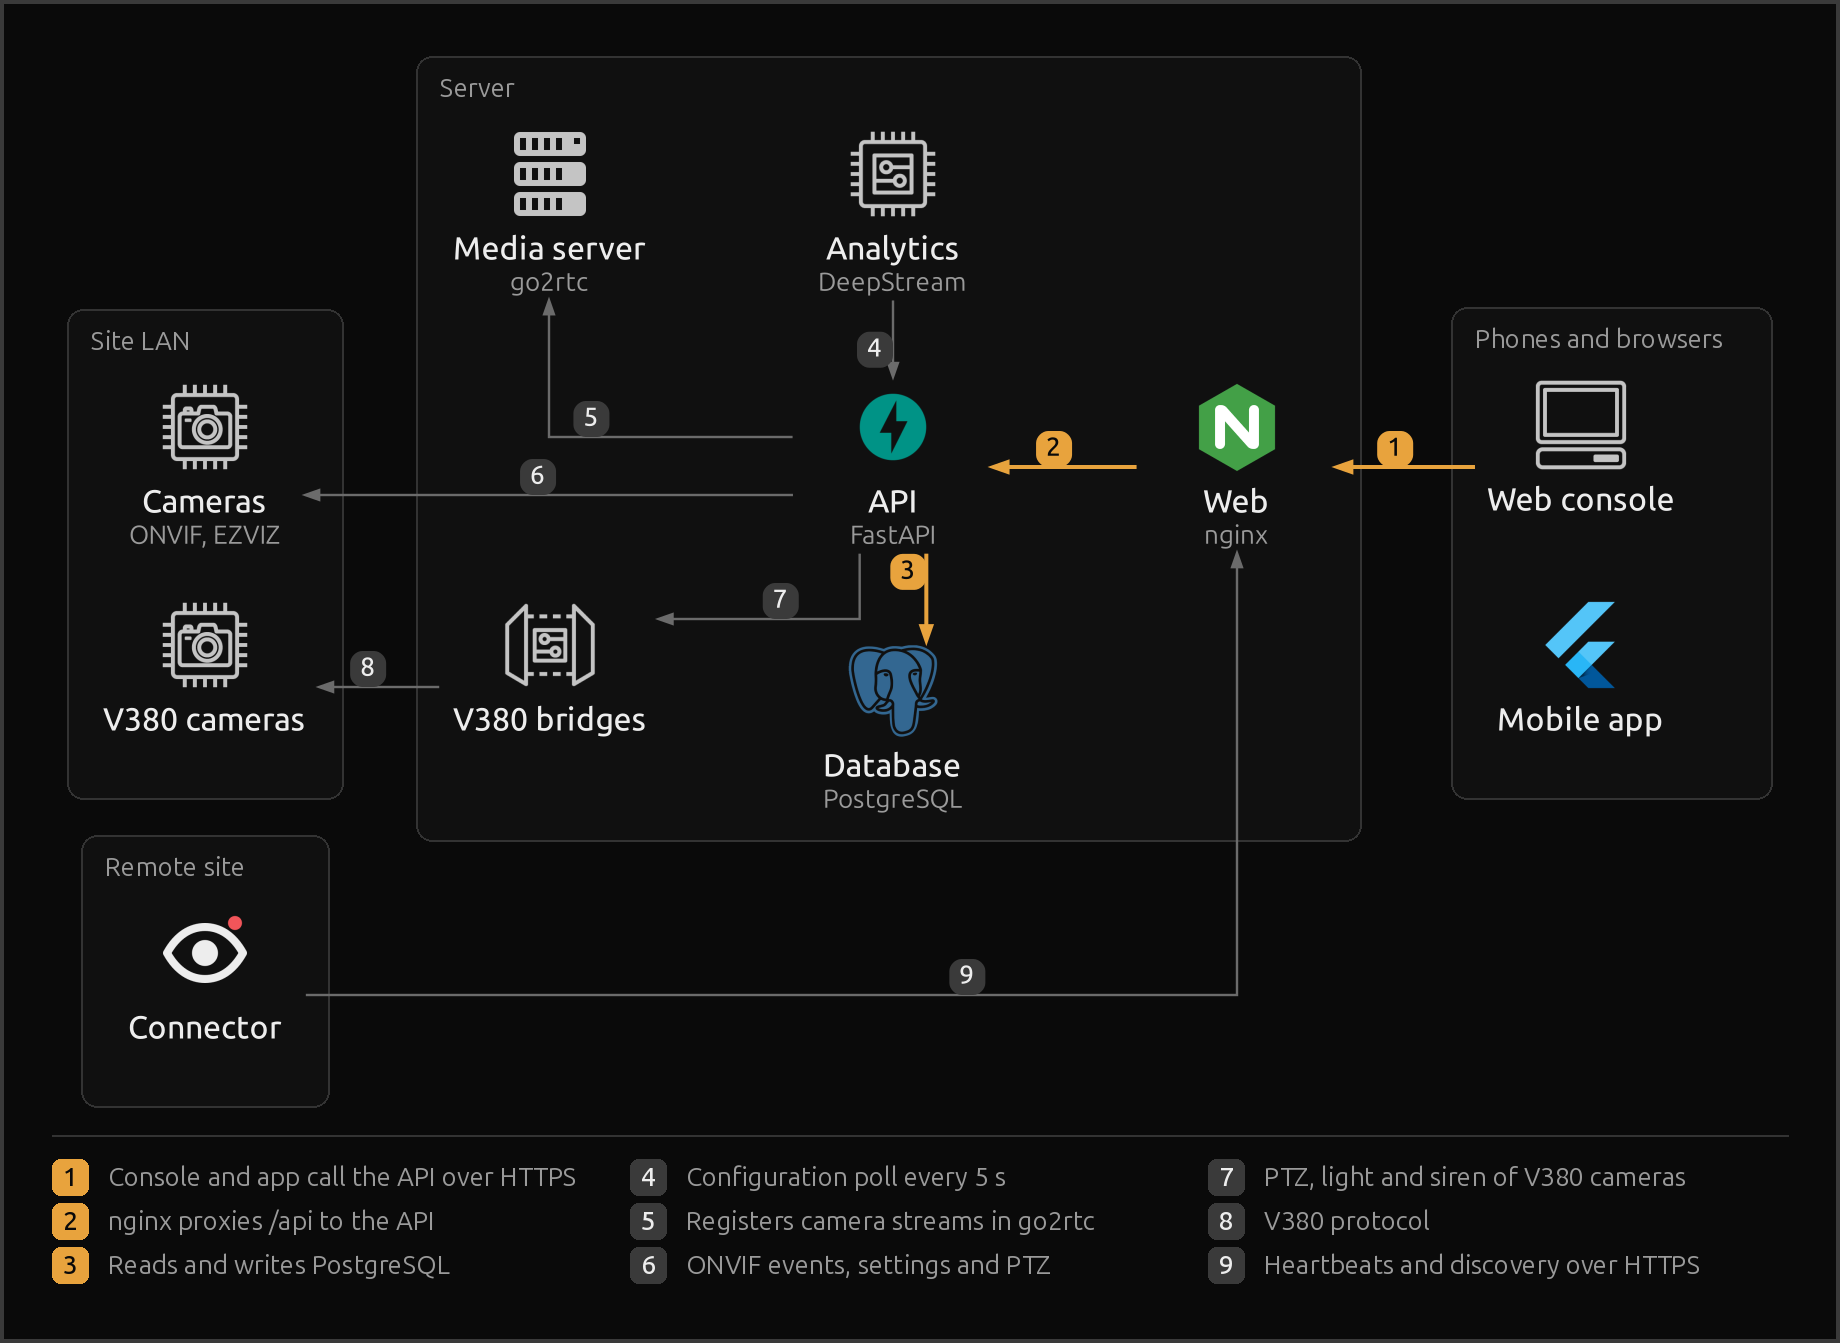
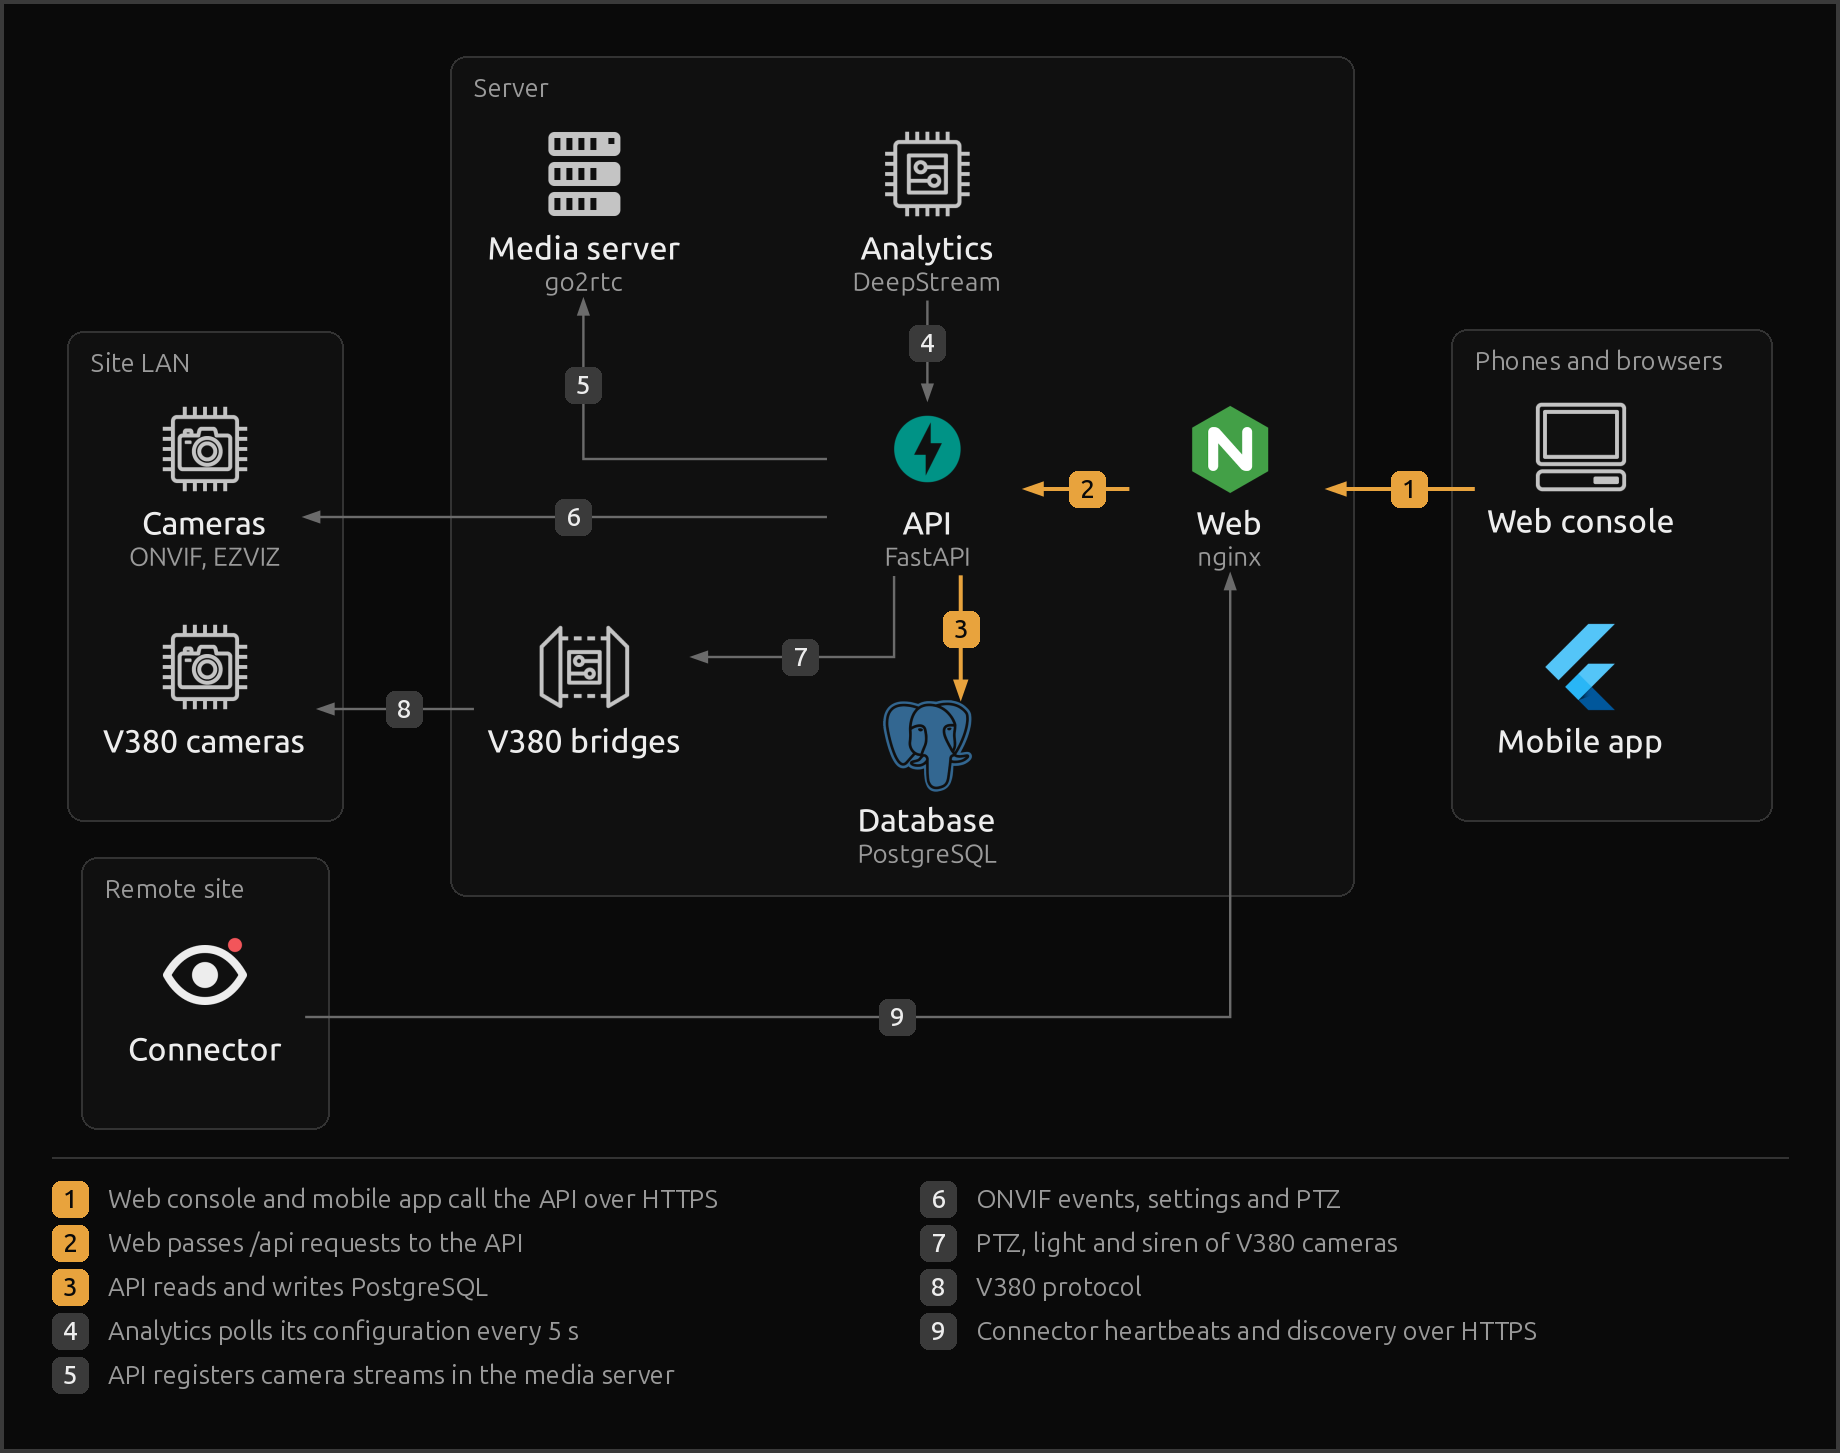
docs(diagrams): give markers room and use one term per thing in the legends
Widen the tight gaps so every marker keeps its clearance, show the tool on each containers-requests node instead of repeating the role, and write every legend line in sentence case with the node labels' terms, such as PostgreSQL, web console and mobile app.

diff --git a/docs/diagrams/architecture-control.py b/docs/diagrams/architecture-control.py
@@ -15,27 +15,27 @@ MARK = str(Path(__file__).resolve().parents[2] / "packages" / "brand" / "mark-da
 
 with Diagram(show=False, graph_attr={"column": "172", "row": "110"}):
     with Cluster("Site LAN"):
-        cameras = IotCamera("Cameras\nONVIF, EZVIZ", grid="0,2")
-        v380 = IotCamera("V380 cameras", grid="0,3")
+        cameras = IotCamera("Cameras\nONVIF, EZVIZ", grid="-0.1,2")
+        v380 = IotCamera("V380 cameras", grid="-0.1,3")
     with Cluster("Remote site"):
-        connector = Custom("Connector", MARK, grid="0,4.4")
+        connector = Custom("Connector", MARK, grid="-0.1,4.4")
     with Cluster("Server"):
-        analytics = IotGeneric("Analytics\nDeepStream", grid="2,0.85")
-        media = Server("Media server\ngo2rtc", grid="1,0.85")
+        analytics = IotGeneric("Analytics\nDeepStream", grid="2,0.75")
+        media = Server("Media server\ngo2rtc", grid="1,0.75")
         bridges = IotDeviceGateway("V380 bridges", grid="1,3")
         api = Fastapi("API\nFastAPI", grid="2,2")
-        database = Postgresql("Database\nPostgreSQL", grid="2,3.2")
-        web = Nginx("Web\nnginx", grid="3,2")
+        database = Postgresql("Database\nPostgreSQL", grid="2,3.35")
+        web = Nginx("Web\nnginx", grid="2.88,2")
     with Cluster("Phones and browsers"):
-        console = Client("Web console", grid="4,2")
-        phone = Flutter("Mobile app", grid="4,3")
+        console = Client("Web console", grid="3.9,2")
+        phone = Flutter("Mobile app", grid="3.9,3")
 
-    console >> Edge(step="Console and app call the API over HTTPS", main="true") >> web
-    web >> Edge(step="nginx proxies /api to the API", main="true") >> api
-    api >> Edge(step="Reads and writes PostgreSQL", main="true") >> database
-    analytics >> Edge(step="Configuration poll every 5 s") >> api
-    api >> Edge(step="Registers camera streams in go2rtc") >> media
+    console >> Edge(step="Web console and mobile app call the API over HTTPS", main="true") >> web
+    web >> Edge(step="Web passes /api requests to the API", main="true") >> api
+    api >> Edge(step="API reads and writes PostgreSQL", main="true") >> database
+    analytics >> Edge(step="Analytics polls its configuration every 5 s") >> api
+    api >> Edge(step="API registers camera streams in the media server") >> media
     api >> Edge(step="ONVIF events, settings and PTZ") >> cameras
     api >> Edge(step="PTZ, light and siren of V380 cameras") >> bridges
     bridges >> Edge(step="V380 protocol") >> v380
-    connector >> Edge(step="Heartbeats and discovery over HTTPS") >> web
+    connector >> Edge(step="Connector heartbeats and discovery over HTTPS") >> web

diff --git a/docs/diagrams/containers-requests.py b/docs/diagrams/containers-requests.py
@@ -14,24 +14,24 @@ with Diagram(show=False, graph_attr={"column": "172", "row": "110"}):
     with Cluster("Site LAN"):
         cameras = IotCamera("Cameras", grid="0,2")
     with Cluster("Compose stack"):
-        analytics = IotGeneric("Analytics\nanalytics", grid="2,0")
+        analytics = IotGeneric("Analytics\nDeepStream", grid="2,0")
         media = Server("Media server\ngo2rtc", grid="1,1")
-        bridges = IotDeviceGateway("V380 bridges\nv380-ptz", grid="1,3.4")
+        bridges = IotDeviceGateway("V380 bridges", grid="1,3.4")
         volume = Storage("Media files\nevents volume", grid="1,0")
-        backend = Fastapi("API\nbackend", grid="2,2")
-        database = Postgresql("Database\npostgres", grid="2,3.4")
-        web = Nginx("Web\nweb", grid="3,2")
-        bus = Nats("Event bus\nnats", grid="3,3.4")
+        backend = Fastapi("API\nFastAPI", grid="2,2")
+        database = Postgresql("Database\nPostgreSQL", grid="2,3.4")
+        web = Nginx("Web\nnginx", grid="3,2")
+        bus = Nats("Event bus\nNATS JetStream", grid="3,0.75")
     with Cluster("Phones and browsers"):
         console = Client("Web console", grid="4,2")
         phone = Flutter("Mobile app", grid="4,3")
 
-    console >> Edge(step="Console and app over HTTPS", main="true") >> web
-    web >> Edge(step="nginx proxies /api to backend", main="true") >> backend
-    backend >> Edge(step="SQL to postgres", main="true") >> database
-    backend >> Edge(step="Camera events out, live events in") >> bus
-    analytics >> Edge(step="Snapshots and clips") >> volume
-    analytics >> Edge(step="Configuration poll, faces") >> backend
-    backend >> Edge(step="Registers camera streams") >> media
-    backend >> Edge(step="ONVIF events, settings, PTZ") >> cameras
-    backend >> Edge(step="PTZ, light and siren") >> bridges
+    console >> Edge(step="Web console and mobile app call the API over HTTPS", main="true") >> web
+    web >> Edge(step="Web passes /api requests to the API", main="true") >> backend
+    backend >> Edge(step="API reads and writes PostgreSQL", main="true") >> database
+    backend >> Edge(step="API publishes camera events and relays live events") >> bus
+    analytics >> Edge(step="Analytics writes snapshots and clips") >> volume
+    analytics >> Edge(step="Analytics polls its configuration and posts faces") >> backend
+    backend >> Edge(step="API registers camera streams in the media server") >> media
+    backend >> Edge(step="ONVIF events, settings and PTZ") >> cameras
+    backend >> Edge(step="PTZ, light and siren of V380 cameras") >> bridges

diff --git a/docs/diagrams/platform-overview.py b/docs/diagrams/platform-overview.py
@@ -9,24 +9,24 @@ from diagrams.onprem.database import Postgresql
 from diagrams.onprem.queue import Nats
 from diagrams.programming.framework import Fastapi, Flutter
 
-with Diagram(show=False, graph_attr={"column": "140", "row": "125"}):
+with Diagram(show=False, graph_attr={"column": "175", "row": "140"}):
     with Cluster("Site LAN"):
         cameras = IotCamera("Cameras", grid="0,0")
-        tv = Android("TV app", grid="0,1")
+        tv = Android("TV app", grid="0,1.25")
     with Cluster("Server"):
         media = Server("Media server\ngo2rtc", grid="1,0")
         analytics = IotGeneric("Analytics\nDeepStream", grid="2,0")
-        bus = Nats("Event bus\nNATS JetStream", grid="3,0")
-        api = Fastapi("API\nFastAPI", grid="4,0")
-        database = Postgresql("Database\nPostgreSQL", grid="4,1")
+        bus = Nats("Event bus\nNATS JetStream", grid="2,1")
+        api = Fastapi("API\nFastAPI", grid="3,1")
+        database = Postgresql("Database\nPostgreSQL", grid="3,2")
     with Cluster("Phones and browsers"):
-        console = Client("Console", grid="5,0")
-        phone = Flutter("Mobile app", grid="5,1")
+        console = Client("Web console", grid="4,1")
+        phone = Flutter("Mobile app", grid="4,2")
 
-    cameras >> Edge(step="go2rtc pulls each camera once", main="true") >> media
-    media >> Edge(step="The original stream to the analytics", main="true") >> analytics
+    cameras >> Edge(step="Media server pulls each camera once", main="true") >> media
+    media >> Edge(step="Original stream to analytics", main="true") >> analytics
     analytics >> Edge(step="Events on the event bus", main="true") >> bus
     bus >> Edge(step="Stored by workers, relayed live by the API", main="true") >> api
     api >> Edge(step="Sites, cameras and events in PostgreSQL") >> database
-    api >> Edge(step="Console and app call the API", main="true") >> console
-    cameras >> Edge(step="The TV app plays the cameras on the Wi-Fi", style="dashed") >> tv
+    api >> Edge(step="Web console and mobile app call the API", main="true") >> console
+    cameras >> Edge(step="TV app plays the cameras on the Wi-Fi", style="dashed") >> tv

diff --git a/docs/diagrams/event-delivery.py b/docs/diagrams/event-delivery.py
@@ -9,7 +9,7 @@ from diagrams.onprem.queue import Nats
 from diagrams.programming.framework import Fastapi, Flutter
 from diagrams.saas.chat import Telegram
 
-with Diagram(show=False, graph_attr={"column": "185", "row": "100"}):
+with Diagram(show=False, graph_attr={"column": "200", "row": "100"}):
     with Cluster("Producers"):
         analytics = IotGeneric("Analytics\nDeepStream", grid="0,0")
         store = Node("Event store", grid="0,1")
@@ -28,17 +28,17 @@ with Diagram(show=False, graph_attr={"column": "185", "row": "100"}):
         phone = Flutter("Mobile app", grid="3,1")
     with Cluster("Alert services"):
         telegram = Telegram("Telegram", grid="3,2.45")
-        push = Messaging("Push\nFCM, ntfy", grid="3.7,2.45")
+        push = Messaging("Push\nFCM, ntfy", grid="3.62,2.45")
     database = Postgresql("Database\nPostgreSQL", grid="3,3.6")
 
-    store >> Edge(step="Stored events on sss.<org>.<site>.live", main="true") >> live
+    store >> Edge(step="Event store publishes stored events on sss.<org>.<site>.live", main="true") >> live
     live >> Edge(step="Every API replica listens to the live subject", main="true") >> relay
-    relay >> Edge(step="Server-sent events to the console and app", main="true") >> console
+    relay >> Edge(step="Server-sent events to the web console and mobile app", main="true") >> console
     analytics >> Edge(step="View status every 5 s, last one kept") >> observations
-    observations >> Edge(step="Replicas follow the last observation") >> relay
+    observations >> Edge(step="API replicas follow the last observation") >> relay
     store >> Edge(step="One alert per event on sss.<org>.alert", main="true") >> alerts
     alerts >> Edge(step="Telegram and push consumers", main="true") >> notifier
     notifier >> Edge(step="Sent with retries per recipient", main="true") >> telegram
     notifier >> Edge(step="Notifications sent on sss.<org>.usage") >> usage
     usage >> Edge(step="Metering reads SSS_USAGE") >> metering
-    metering >> Edge(step="Hourly usage rollups") >> database
+    metering >> Edge(step="Hourly usage rollups in PostgreSQL") >> database

diff --git a/docs/diagrams/architecture-video.py b/docs/diagrams/architecture-video.py
@@ -16,10 +16,10 @@ with Diagram(show=False, graph_attr={"row": "110"}):
     with Cluster("Site LAN"):
         v380 = IotCamera("V380 cameras", grid="0,0")
         cameras = IotCamera("Cameras\nONVIF, EZVIZ", grid="0,1")
-        tv = Android("TV app\nAndroid TV", grid="0,2.2")
+        tv = Android("TV app\nAndroid TV", grid="0,2.5")
     with Cluster("Remote site"):
-        remote = IotCamera("Cameras", grid="1,2.45")
-        connector = Custom("Connector\ngo2rtc", MARK, grid="2,2.45")
+        remote = IotCamera("Cameras", grid="1,2.7")
+        connector = Custom("Connector\ngo2rtc", MARK, grid="2,2.7")
     with Cluster("Server"):
         bridges = IotDeviceGateway("V380 bridges", grid="1,0")
         media = Server("Media server\ngo2rtc", grid="2,1")
@@ -29,11 +29,11 @@ with Diagram(show=False, graph_attr={"row": "110"}):
         phone = Flutter("Mobile app", grid="3,2")
 
     cameras >> Edge(step="RTSP, the original stream of each camera", main="true") >> media
-    v380 >> Edge(step="V380 protocol to the bridges") >> bridges
-    bridges >> Edge(step="RTSP from each V380 camera") >> media
+    v380 >> Edge(step="V380 protocol") >> bridges
+    bridges >> Edge(step="RTSP for each V380 camera") >> media
     remote >> Edge(step="RTSP inside the remote site") >> connector
-    connector >> Edge(step="Restream of the remote cameras") >> media
-    media >> Edge(step="Original H.265 to the analytics") >> analytics
-    media >> Edge(step="H.264 over a websocket to the console", main="true") >> console
+    connector >> Edge(step="Connector restreams the remote cameras") >> media
+    media >> Edge(step="Original H.265 to analytics") >> analytics
+    media >> Edge(step="H.264 over a websocket to the web console", main="true") >> console
     media >> Edge(step="WebRTC to the mobile app", main="true") >> phone
-    cameras >> Edge(step="The TV app plays the cameras directly", style="dashed") >> tv
+    cameras >> Edge(step="TV app plays the cameras directly", style="dashed") >> tv

diff --git a/docs/diagrams/analytics-pipeline.py b/docs/diagrams/analytics-pipeline.py
@@ -6,7 +6,7 @@ from diagrams.onprem.compute import Server
 from diagrams.onprem.queue import Nats
 from diagrams.programming.framework import Fastapi
 
-with Diagram(show=False, graph_attr={"column": "205", "row": "110"}):
+with Diagram(show=False, graph_attr={"column": "225", "row": "110"}):
     media = Server("Media server\ngo2rtc", grid="0,0.5")
     with Cluster("Analytics container"):
         with Cluster("DeepStream on the GPU"):
@@ -14,15 +14,15 @@ with Diagram(show=False, graph_attr={"column": "205", "row": "110"}):
         recorder = Node("Recorder\n2 s segments", grid="1,1.6")
         rules = Node("Rules\nzones, lines, faces", grid="2,0.5")
         clips = Node("Clips\nH.264, NVENC", grid="2,1.6")
-    api = Fastapi("API\nconfiguration", grid="3,-0.6")
+    api = Fastapi("API\nFastAPI", grid="3,-0.6")
     bus = Nats("Event bus\nNATS JetStream", grid="3,0.5")
     volume = Storage("Media files\nevents volume", grid="3,1.6")
 
     media >> Edge(step="Original H.265, decoded once on NVDEC", main="true") >> detect
     detect >> Edge(step="Tracked people, vehicles and animals", main="true") >> rules
     rules >> Edge(step="Event changes and observations", main="true") >> bus
-    api >> Edge(step="Configuration poll every 5 s over HTTP", style="dashed") >> rules
+    api >> Edge(step="Rules poll their configuration every 5 s", style="dashed") >> rules
     media >> Edge(step="A copy of the stream, not re-encoded") >> recorder
-    recorder >> Edge(step="Two-second segments in memory") >> clips
+    recorder >> Edge(step="2 s segments in memory") >> clips
     rules >> Edge(step="Each event asks for its snapshot and clip") >> clips
     clips >> Edge(step="JPEG and H.264 MP4 files") >> volume

diff --git a/docs/diagrams/system-context.py b/docs/diagrams/system-context.py
@@ -17,9 +17,9 @@ with Diagram(show=False, graph_attr={"column": "215", "row": "110"}):
     with Cluster("Site LAN"):
         v380 = IotCamera("V380 cameras", grid="0,0")
         cameras = IotCamera("Cameras\nONVIF, EZVIZ", grid="0,1")
-        tv = Android("TV app\nAndroid TV", grid="0,2")
+        tv = Android("TV app\nAndroid TV", grid="0,2.25")
     with Cluster("Remote sites"):
-        remote = IotCamera("Cameras\nvia a connector", grid="0,3.35")
+        remote = IotCamera("Cameras\nvia a connector", grid="0,3.6")
     system = Custom("Smart Surveillance\nself-hosted platform", MARK, grid="1,1")
     with Cluster("People"):
         admin = User("Administrator", grid="3,1")
@@ -30,8 +30,8 @@ with Diagram(show=False, graph_attr={"column": "215", "row": "110"}):
         mail = Internet("Mail\nSMTP", grid="2,3.35")
 
     cameras >> Edge(step="Video and events from the cameras", main="true") >> system
-    v380 >> Edge(step="V380 cameras through their bridges") >> system
+    v380 >> Edge(step="V380 cameras through V380 bridges") >> system
     remote >> Edge(step="Remote cameras through a connector") >> system
-    system >> Edge(step="Console and app for owners and admins", main="true") >> owner
-    system >> Edge(step="Alerts by Telegram and push, account mail") >> telegram
-    cameras >> Edge(step="The TV app plays the cameras directly", style="dashed") >> tv
+    system >> Edge(step="Web console and mobile app for site owners and administrators", main="true") >> owner
+    system >> Edge(step="Alerts by Telegram and push, account mail by SMTP") >> telegram
+    cameras >> Edge(step="TV app plays the cameras directly", style="dashed") >> tv

diff --git a/docs/diagrams/event-ingest.py b/docs/diagrams/event-ingest.py
@@ -17,8 +17,16 @@ with Diagram(show=False, graph_attr={"row": "110"}):
         store = Node("Event store", grid="2,0")
     database = Postgresql("Database\nPostgreSQL", grid="3,0")
 
-    analytics >> Edge(step="Event changes on sss.<org>.<site>.analytics.<view>.event", main="true") >> events
-    api >> Edge(step="Camera events on sss.<org>.<site>.camera.<camera>.event, and edge engines' events") >> events
-    events >> Edge(step="Durable consumer event-store reads SSS_EVENTS", main="true") >> store
-    store >> Edge(step="Upserts each event by its id, so a repeat changes nothing", main="true") >> database
+    (
+        analytics
+        >> Edge(step="Analytics publishes event changes on sss.<org>.<site>.analytics.<view>.event", main="true")
+        >> events
+    )
+    (
+        api
+        >> Edge(step="API publishes camera events on sss.<org>.<site>.camera.<camera>.event and edge engine events")
+        >> events
+    )
+    events >> Edge(step="Event store reads SSS_EVENTS with a durable consumer", main="true") >> store
+    store >> Edge(step="Event store upserts each event by its id, so a repeat changes nothing", main="true") >> database
     store >> Edge(step="Exhausted messages go to sss.deadletter.<stream>.<consumer>", style="dashed") >> deadletter
